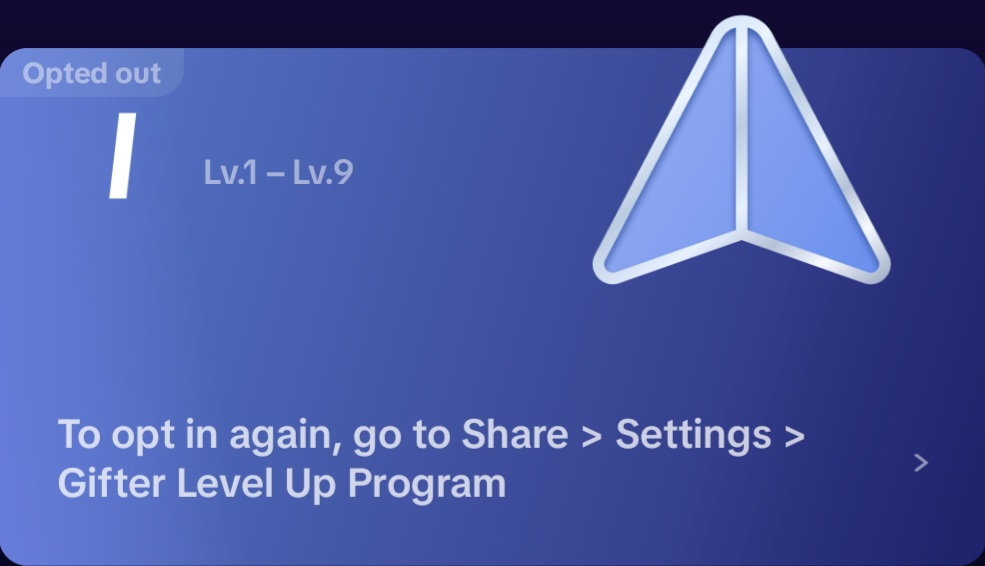
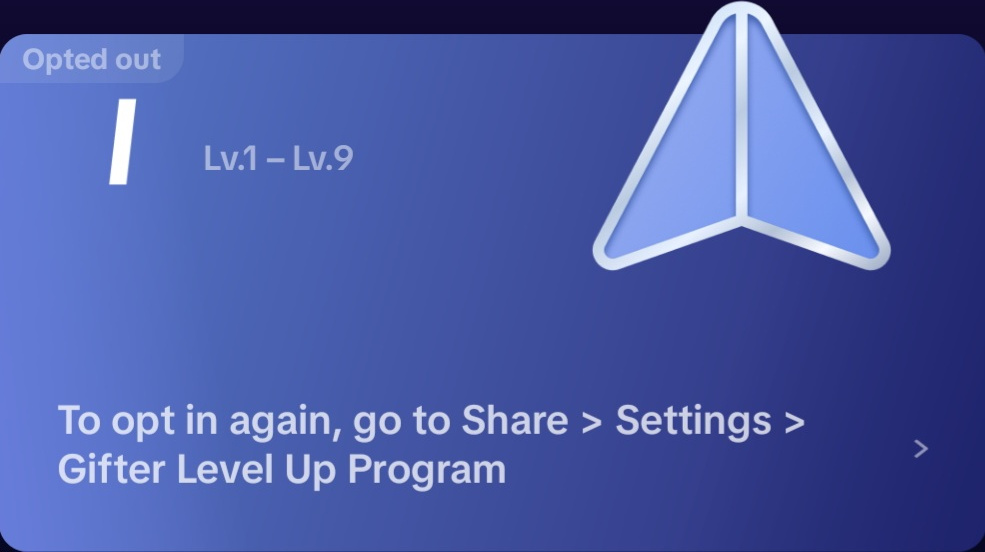
assets(gifter): crop black outer margins from six level range sheets

diff --git a/reports/GIFTER_RANGE_SHEET_CROP_REPORT.md b/reports/GIFTER_RANGE_SHEET_CROP_REPORT.md
@@ -1,0 +1,16 @@
+# Gifter Range-Sheet Crop Report
+
+Only the six original Gifter range-reference JPGs were processed to remove solid-black outer edge padding. The badges, lettering, level order, internal artwork, 11 detailed panels, master sheets, Rewards banner, progression logic, Coin thresholds, wallets and deleted Level-Up chart were not changed.
+
+| Source sheet | Before | After | Cropped pixels (L / T / R / B) |
+|---|---:|---:|---:|
+| LV.1 - LV.9.jpg | 985×566 | 985×552 | 0 / 14 / 0 / 0 |
+| LV.10 - LV.19.jpg | 989×560 | 989×542 | 0 / 18 / 0 / 0 |
+| LV.20 - LV.29.jpg | 998×580 | 986×558 | 0 / 22 / 12 / 0 |
+| LV.30 - LV.39.jpg | 995×580 | 987×541 | 0 / 39 / 8 / 0 |
+| LV.40 - LV.49.jpg | 988×588 | 988×565 | 0 / 23 / 0 / 0 |
+| LV.50+.jpg | 1006×594 | 989×569 | 7 / 23 / 10 / 2 |
+
+Detection rule: near-black pixels have every RGB channel ≤ 60; an outer row or column is removed only when at least 99.2% of its pixels meet that rule. A 12% per-edge cap and 76% minimum-content gate prevent aggressive crops.
+
+All six source sheets decoded successfully. Cropped JPGs were re-encoded at quality 95 with progressive encoding and 4:4:4 chroma sampling. The before/after contact sheet and detailed pixel/hash metrics are attached to the workflow review artifact.
